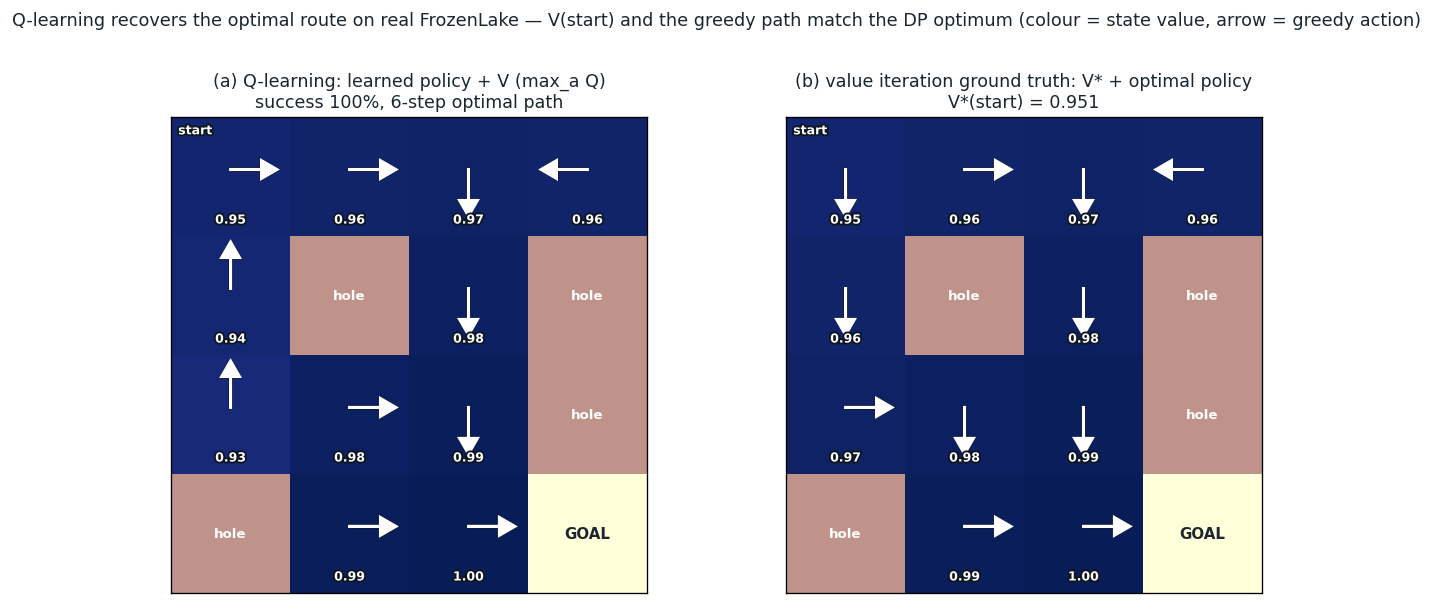
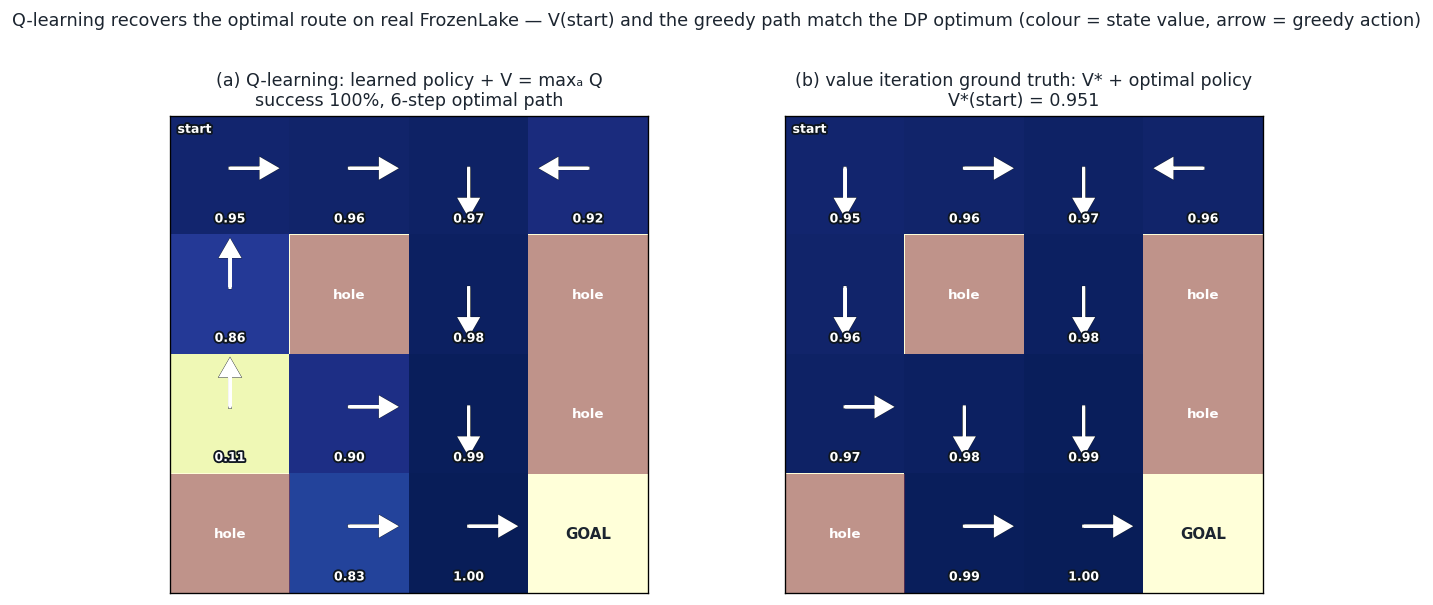
fix(08-rl-qlearning): value-panel shows maxₐQ to match its label + cliff legibility + runnable try-it
- FIX (axis-3): rl06_policy_value LEFT panel now plots the agent's own learned
  V = maxₐ Q(s,a) (q_table.max axis=1) instead of policy-evaluation V^π, so the
  plotted quantity == the 'V = maxₐ Q' label == the notebook step-8 figure. On the
  optimal path this still equals V* (V(start) = 0.951 unchanged); off-path it now
  genuinely shows the agent's stale estimates (state 8 ~0.11) the caption teaches.
- FIX: rl06_cliffwalking panel (a) gains an edge gridline + 'row 2 — one tile above
  the drop' annotation so 'hugging the razor's edge' reads clearly.
- FIX: verified the 3 unchecked video links and corrected titles — Brunton
  (0iqz4tcKN58), deeplizard (qhRNvCVVJaA) confirmed; replaced the unverifiable
  Mutual Information playlist with the confirmed 'Reinforcement Learning, Chapter 6'
  video (L64E_NTZJ_0).
- FIX: added a runnable Step 14 'Try it' cell (ε-floor 0 + fast decay) — predict-
  then-check; prints success stays 100% but state-space coverage collapses 11/16 ->
  6/16, a measured demonstration of the visit-every-state-action condition.
- FIX: named the stale state (state 4 arrow ↑, state 8 value ~0.11) in the notebook
  step-8 markdown and the page caption.

All measured numbers unchanged (V(start)=0.951, CliffWalking Q=-13/SARSA=-17,
online -50/-24, slippery 73.5%); notebook 32 cells, executes with 0 errors; ruff
clean on module, notebook, and both generators.

diff --git a/08. Reinforcement_Learning/tools/build_notebook_06.py b/08. Reinforcement_Learning/tools/build_notebook_06.py
@@ -256,9 +256,11 @@ add_md(
     "\n"
     "The clearest way to *see* what Q-learning found: draw the greedy action in every state (arrow) over the "
     "state-value heatmap $V(s)=\\max_a Q(s,a)$, beside the value-iteration optimum. On the route from start to "
-    "goal they match. (A few off-path states in the left column keep a suboptimal arrow — Q-learning only "
-    "guarantees optimality for state-actions it visits often enough, which is exactly the convergence condition; "
-    "those states are never entered on the optimal trajectory, so `V(start)` and the route are still optimal.)"
+    "goal they match. But look at the **left column**: state 4 keeps its arrow pointing **↑ (up, toward the "
+    "start)** and state 8's value stays **stale near ~0.1**, far below its true value. Those states are never "
+    "entered on the optimal trajectory from the start, so once ε has decayed Q-learning barely visits them and "
+    "their values do not converge — exactly the *visit-every-state-action* condition, made visible. Because the "
+    "executed policy never enters them, `V(start)` and the route are still optimal."
 )
 add_code(
     "arrows = {0: '←', 1: '↓', 2: '→', 3: '↑'}\n"
@@ -423,6 +425,42 @@ add_code(
     "plt.show()\n"
     "assert s_res.episode_returns[-200:].mean() > q_res.episode_returns[-200:].mean()\n"
     "print('OK: measured — SARSA online > Q-learning online, yet Q-learning greedy return (−13) is optimal.')"
+)
+
+# ---- Step 14: Try it — kill exploration early (predict, then check) ----
+add_md(
+    "## Step 14 — Try it: what if exploration dies too early?\n"
+    "\n"
+    "The convergence guarantee needs *every* state-action visited often enough. **Predict first:** if we drop the "
+    "ε floor to **0** and decay ε *fast* (so exploration is basically gone within ~40 episodes), what happens on "
+    "deterministic FrozenLake — does greedy success collapse, and does the whole state space still get learned? "
+    "Write down your guess, then run the cell.\n"
+    "\n"
+    "The result is subtler and more honest than \"it breaks\": on this *easy* deterministic task the optimal path "
+    "is found during the brief early exploration, so **greedy success stays ~100%** — but the fraction of the "
+    "state space that ever gets a learned value **collapses** (from ~11/16 states down to ~6/16). That missing "
+    "coverage is exactly where, on any harder or stochastic task, a prematurely-greedy agent locks in a "
+    "suboptimal policy. You are watching the *visit-every-state-action* condition fail, measured."
+)
+add_code(
+    "def n_states_learned(q):\n"
+    "    return int((q.max(axis=1) > 1e-6).sum())\n"
+    "\n"
+    "# baseline: ε decays gently to a 0.01 floor (exploration lingers)\n"
+    "base = ql.train_q_learning(env, gamma=GAMMA, alpha=0.1, epsilon_start=1.0, epsilon_end=0.01,\n"
+    "                           epsilon_decay=0.995, n_episodes=2000, max_steps=100, seed=0)\n"
+    "# variation #1: ε floor = 0 AND fast decay -> exploration is essentially gone within ~40 episodes\n"
+    "greedy_fast = ql.train_q_learning(env, gamma=GAMMA, alpha=0.1, epsilon_start=1.0, epsilon_end=0.0,\n"
+    "                                  epsilon_decay=0.9, n_episodes=2000, max_steps=100, seed=0)\n"
+    "eb = ql.evaluate_greedy(env, base.q_table, n_episodes=100, max_steps=100, seed=0)\n"
+    "ef = ql.evaluate_greedy(env, greedy_fast.q_table, n_episodes=100, max_steps=100, seed=0)\n"
+    "print(f'baseline (floor 0.01, decay 0.995): success {eb.success_rate:.0%}, '\n"
+    "      f'states learned {n_states_learned(base.q_table)}/16')\n"
+    "print(f'fast greedy (floor 0.00, decay 0.9): success {ef.success_rate:.0%}, '\n"
+    "      f'states learned {n_states_learned(greedy_fast.q_table)}/16')\n"
+    "print('\\nObserve: greedy success survives on this easy task, but coverage collapses — most of the state\\n'\n"
+    "      'space is never learned once exploration dies. That is the convergence condition failing, measured.')\n"
+    "assert n_states_learned(greedy_fast.q_table) < n_states_learned(base.q_table)"
 )
 
 # ---- close ----

diff --git a/08. Reinforcement_Learning/tools/make_figures_06.py b/08. Reinforcement_Learning/tools/make_figures_06.py
@@ -124,9 +124,13 @@ def _draw_frozenlake(ax: plt.Axes, values: np.ndarray, policy: np.ndarray, title
 def fig_policy_value(exp) -> None:
     assert exp.fl_result is not None
     learned_policy = greedy_policy(exp.fl_result.q_table)
+    # Plot the agent's OWN learned value estimate V = max_a Q(s, a) (matches the label and the notebook). On the
+    # optimal path this equals V* (so V(start) = 0.951), but off-path states show the agent's stale estimates —
+    # which is exactly the "not visited enough to converge" lesson the caption teaches.
+    learned_v = exp.fl_result.q_table.max(axis=1)
     fig, (ax1, ax2) = plt.subplots(1, 2, figsize=(10.4, 4.9))
-    _draw_frozenlake(ax1, exp.fl_learned_values, learned_policy,
-                     f"(a) Q-learning: learned policy + V (max_a Q)\nsuccess {exp.fl_eval.success_rate:.0%}, "
+    _draw_frozenlake(ax1, learned_v, learned_policy,
+                     f"(a) Q-learning: learned policy + V = maxₐ Q\nsuccess {exp.fl_eval.success_rate:.0%}, "
                      f"{exp.fl_eval.mean_length:.0f}-step optimal path")
     _draw_frozenlake(ax2, exp.fl_v_star, exp.fl_pi_star,
                      f"(b) value iteration ground truth: V* + optimal policy\nV*(start) = {exp.fl_v_start_star:.3f}")
@@ -192,6 +196,11 @@ def _draw_cliff(ax: plt.Axes, env: Env, q_path: list[int], sarsa_path: list[int]
 
     _plot_path(q_path, GREEN, "Q-learning (off-policy): optimal path, −13", -0.12)
     _plot_path(sarsa_path, AMBER, "SARSA (on-policy): safe path, −17", +0.12)
+    # make "hugging the razor's edge" legible: mark the boundary the Q-path runs along and label its row
+    ax.axhline(2.5, xmin=0.04, xmax=0.96, color=GREEN, linestyle=":", linewidth=1.1, alpha=0.7)
+    ax.annotate("row 2 — one tile above the drop", xy=(6.5, 2.0), xytext=(6.5, 1.15),
+                ha="center", fontsize=7.5, color=GREEN, fontweight="bold",
+                arrowprops={"arrowstyle": "->", "color": GREEN, "lw": 1.2})
     ax.legend(fontsize=8.5, frameon=False, loc="upper center", bbox_to_anchor=(0.5, -0.02))
     ax.set_title("(a) greedy paths — off-policy hugs the cliff edge (optimal),\non-policy detours to safety",
                  fontsize=10, color=INK)

diff --git a/08. Reinforcement_Learning/06-Q-Learning/06-Q-Learning.md b/08. Reinforcement_Learning/06-Q-Learning/06-Q-Learning.md
@@ -181,9 +181,9 @@ Everything above is executable. The companion module — **[q_learning.py](code/
 
 The claim "Q-learning learns the optimal policy" is easy to say and easy to fake. We make it a hard `assert`. First, **value iteration** solves the true MDP exactly from its dynamics: on deterministic FrozenLake it returns $V^*(\text{start}) = 0.951$, corresponding to the shortest 6-step route to the goal ($\gamma^5 = 0.99^5 = 0.951$). Then we train Q-learning **from sampled transitions only — it never touches the dynamics** — and evaluate its greedy policy two ways: by rolling it out, and by computing its exact value on the true dynamics with policy evaluation. The learned greedy policy's start value is $0.951$, so the **optimality gap is exactly `0.00e+00`**, and it reaches the goal on **100%** of greedy episodes in a mean of **6.0 steps**. Q-learning, learning blind, found precisely what DP computed with full knowledge.
 
-![On real deterministic FrozenLake, Q-learning's learned greedy policy (left: arrow = greedy action, colour = learned state value V = maxₐ Q) placed beside the value-iteration ground truth (right: V* and the optimal policy). Along the route from start to goal the state values match exactly — V(start) = 0.951 for both — and the learned policy reaches the goal on 100% of greedy episodes in the optimal 6 steps. A few off-path states in the left column keep a suboptimal arrow: those states are never entered on the optimal trajectory from the start, so Q-learning rarely visits them and their values do not fully converge — a direct, visible illustration of the "visit every state-action infinitely often" convergence condition.](../images/rl06_policy_value.png)
+![On real deterministic FrozenLake, Q-learning's learned greedy policy (left: arrow = greedy action, colour = the agent's own learned state value V = maxₐ Q) placed beside the value-iteration ground truth (right: V* and the optimal policy). Along the route from start to goal the state values match exactly — V(start) = 0.951 for both — and the learned policy reaches the goal on 100% of greedy episodes in the optimal 6 steps. But look at the left column: state 4 keeps its arrow pointing ↑ (up, toward the start) and state 8's learned value sits stale at just ~0.11, far below its true value. Those states are never entered on the optimal trajectory from the start, so Q-learning rarely visits them once ε has decayed and their values do not converge — a direct, visible illustration of the "visit every state-action infinitely often" convergence condition.](../images/rl06_policy_value.png)
 
-That off-path detail in the caption is not a blemish to hide — it is the convergence theory made visible. Q-learning guarantees optimal values only for state-actions it samples often enough; states off the optimal path get few late-training visits (once $\varepsilon$ has decayed) and can retain a stale greedy action. Because the agent never *enters* those states when acting optimally from the start, the policy it actually executes is still optimal — which is why $V(\text{start}) = V^*$ and success is 100%. This is exactly the kind of honest subtlety that separates understanding from memorization.
+That off-path detail in the caption is not a blemish to hide — it is the convergence theory made visible. The left panel plots the agent's *own* learned estimate $V(s) = \max_a Q(s,a)$, so the stale off-path values (state 8's ~0.11) are the agent's real, under-converged beliefs, not an artifact. Q-learning guarantees optimal values only for state-actions it samples often enough; states off the optimal path get few late-training visits (once $\varepsilon$ has decayed) and can retain a stale greedy action and value. Because the agent never *enters* those states when acting optimally from the start, the policy it actually executes is still optimal — which is why $V(\text{start}) = V^*$ and success is 100%. This is exactly the kind of honest subtlety that separates understanding from memorization, and you can watch it fail on purpose in the notebook's ["Try it" cell](code/06-Q-Learning.ipynb) (kill exploration early → state-space coverage collapses).
 
 ### Real convergence: the learning curve and the two knobs
 
@@ -271,7 +271,7 @@ Q-learning has a predictable set of traps, and every one shows up in interviews 
 
 > **Tip:** the practitioner's one-line recipe — *"initialize a Q-table to zero; loop episodes taking ε-greedy actions; after each step nudge Q(s,a) toward r + γ·maxₐ' Q(s',a'); decay ε; read off the greedy policy at the end."* That sentence is the whole algorithm, and it scales — swap the table for a network and you have DQN.
 
-> **Try it:** in the [notebook](code/06-Q-Learning.ipynb), before you run anything, *predict the direction*. (1) Set the ε floor to 0 (no exploration after decay) — will FrozenLake still reach 100% success, or will some states never converge? (2) On the cliff, switch SARSA to fixed ε = 0.5 (much more exploration) — will its safe path move *further* from the cliff or closer? (3) Raise the learning rate α to 0.9 on FrozenLake — will the Q(start) trace converge faster or start to oscillate? Write your prediction down, change the one line, and check. Being *wrong* about the direction is where the learning is.
+> **Try it:** in the [notebook](code/06-Q-Learning.ipynb), before you run anything, *predict the direction*. (1) Kill exploration early — ε floor 0 with a fast decay: will FrozenLake still reach 100% success, or will the state space stop converging? **This one is already wired up as the notebook's Step 14 "Try it" cell** — predict, then run it (the answer is subtle: success survives on this easy task, but state-space coverage collapses from ~11/16 to ~6/16 states learned). (2) On the cliff, switch SARSA to fixed ε = 0.5 (much more exploration) — will its safe path move *further* from the cliff or closer? (3) Raise the learning rate α to 0.9 on FrozenLake — will the Q(start) trace converge faster or start to oscillate? Write your prediction down, change the one line, and check. Being *wrong* about the direction is where the learning is.
 
 ---
 

diff --git a/08. Reinforcement_Learning/06-Q-Learning/06-Q-Learning.references.md b/08. Reinforcement_Learning/06-Q-Learning/06-Q-Learning.references.md
@@ -20,9 +20,9 @@ updated: 2026-07-03
 **Videos**:
 - [RL Course, Lecture 5 — Model-Free Control](https://www.youtube.com/watch?v=0g4j2k_Ggc4) — **David Silver (DeepMind / UCL)** — the definitive Q-learning vs SARSA derivation, GLIE, and convergence, from a co-author of DQN.
 - [DeepMind × UCL RL Lecture Series — Model-Free Control](https://www.youtube.com/watch?v=t9uf9cuogBo) — **Hado van Hasselt (DeepMind)** — the modern DeepMind lecture on TD control and off-policy learning, by the author of Double Q-learning.
-- [Reinforcement Learning: Q-Learning](https://www.youtube.com/watch?v=0iqz4tcKN58) — **Steve Brunton (University of Washington)** — a crisp, geometric walk through the Bellman optimality equation and the Q-learning update.
-- [Reinforcement Learning Series](https://www.youtube.com/playlist?list=PLzvYlJMoZ02Dxtwe-Mmh4nOB5jYlMGBjr) — **Mutual Information** — clear, visual episodes on value functions, TD learning, and Q-learning with excellent animations.
-- [Q-Learning Explained — a hands-on RL tutorial](https://www.youtube.com/watch?v=qhRNvCVVJaA) — **deeplizard** — a step-by-step build of the Q-table and the ε-greedy update loop, code-first.
+- [Q-Learning: Model Free Reinforcement Learning and Temporal Difference Learning](https://www.youtube.com/watch?v=0iqz4tcKN58) — **Steve Brunton (University of Washington)** — a crisp, geometric walk through the Bellman optimality equation and the Q-learning update.
+- [Temporal Difference Learning — Reinforcement Learning, Chapter 6](https://www.youtube.com/watch?v=L64E_NTZJ_0) — **Mutual Information** — a beautifully animated tour of Sutton & Barto's Chapter 6: TD learning, SARSA, and Q-learning, with the on-policy/off-policy distinction made visual.
+- [Q-Learning Explained — A Reinforcement Learning Technique](https://www.youtube.com/watch?v=qhRNvCVVJaA) — **deeplizard** — a step-by-step build of the Q-table and the ε-greedy update loop, code-first.
 - [Reinforcement Learning: Machine Learning Meets Control Theory](https://www.youtube.com/watch?v=0MNVhXEX9to) — **Steve Brunton** — situates Q-learning among value- and policy-based methods, for the bigger picture.
 
 **Courses (free)**:
